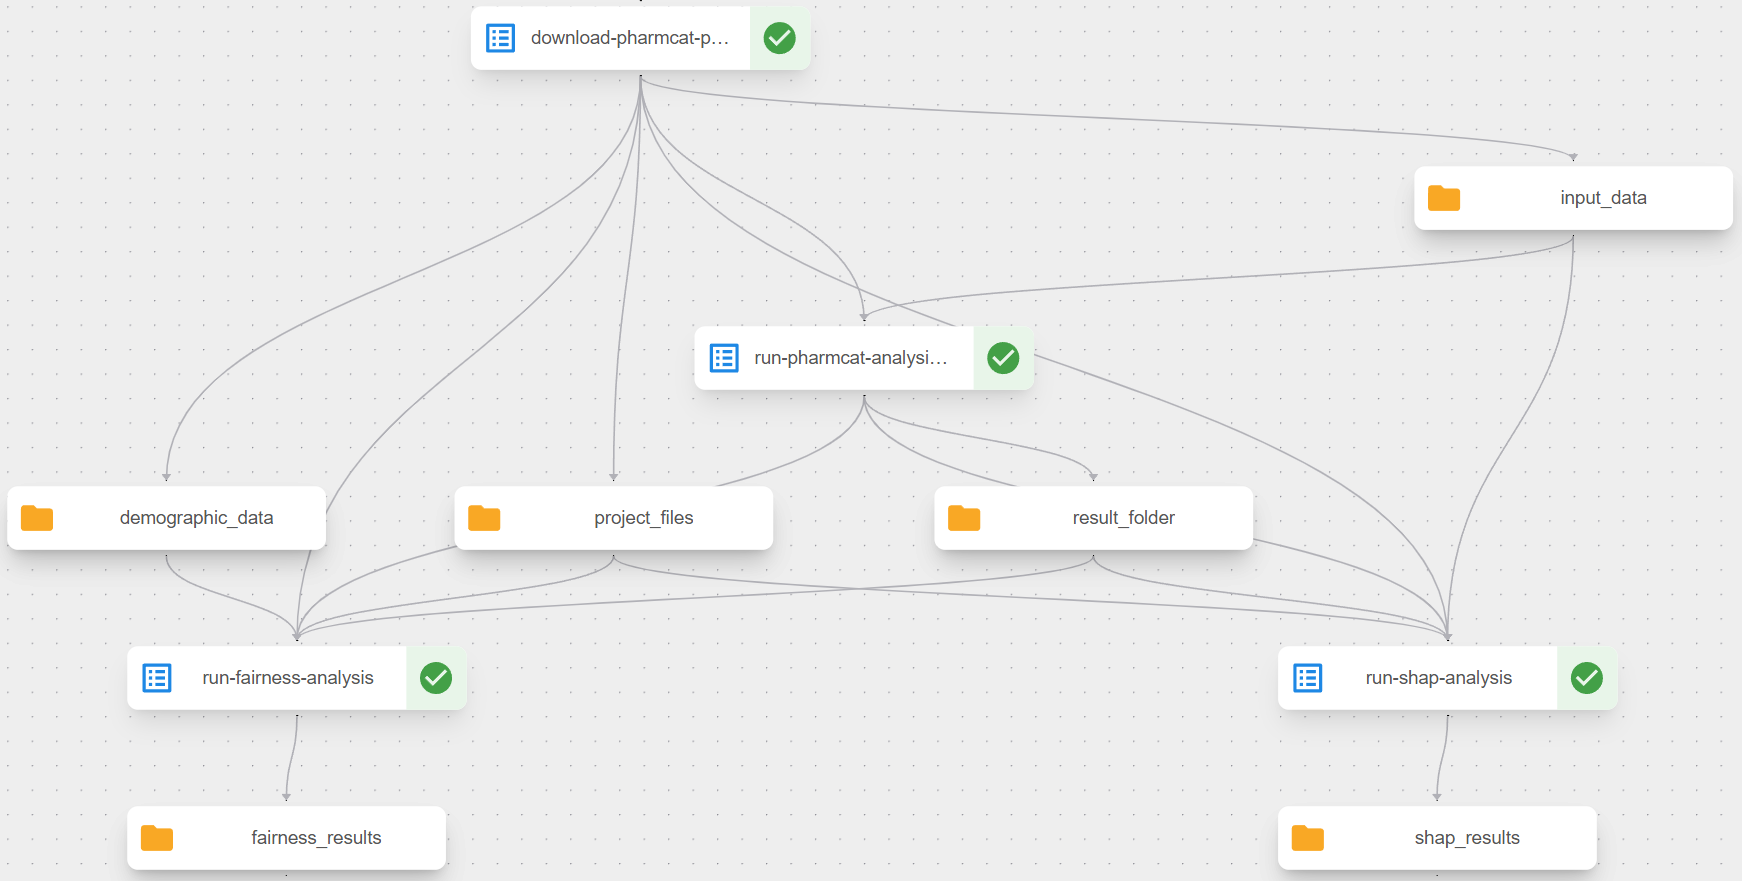
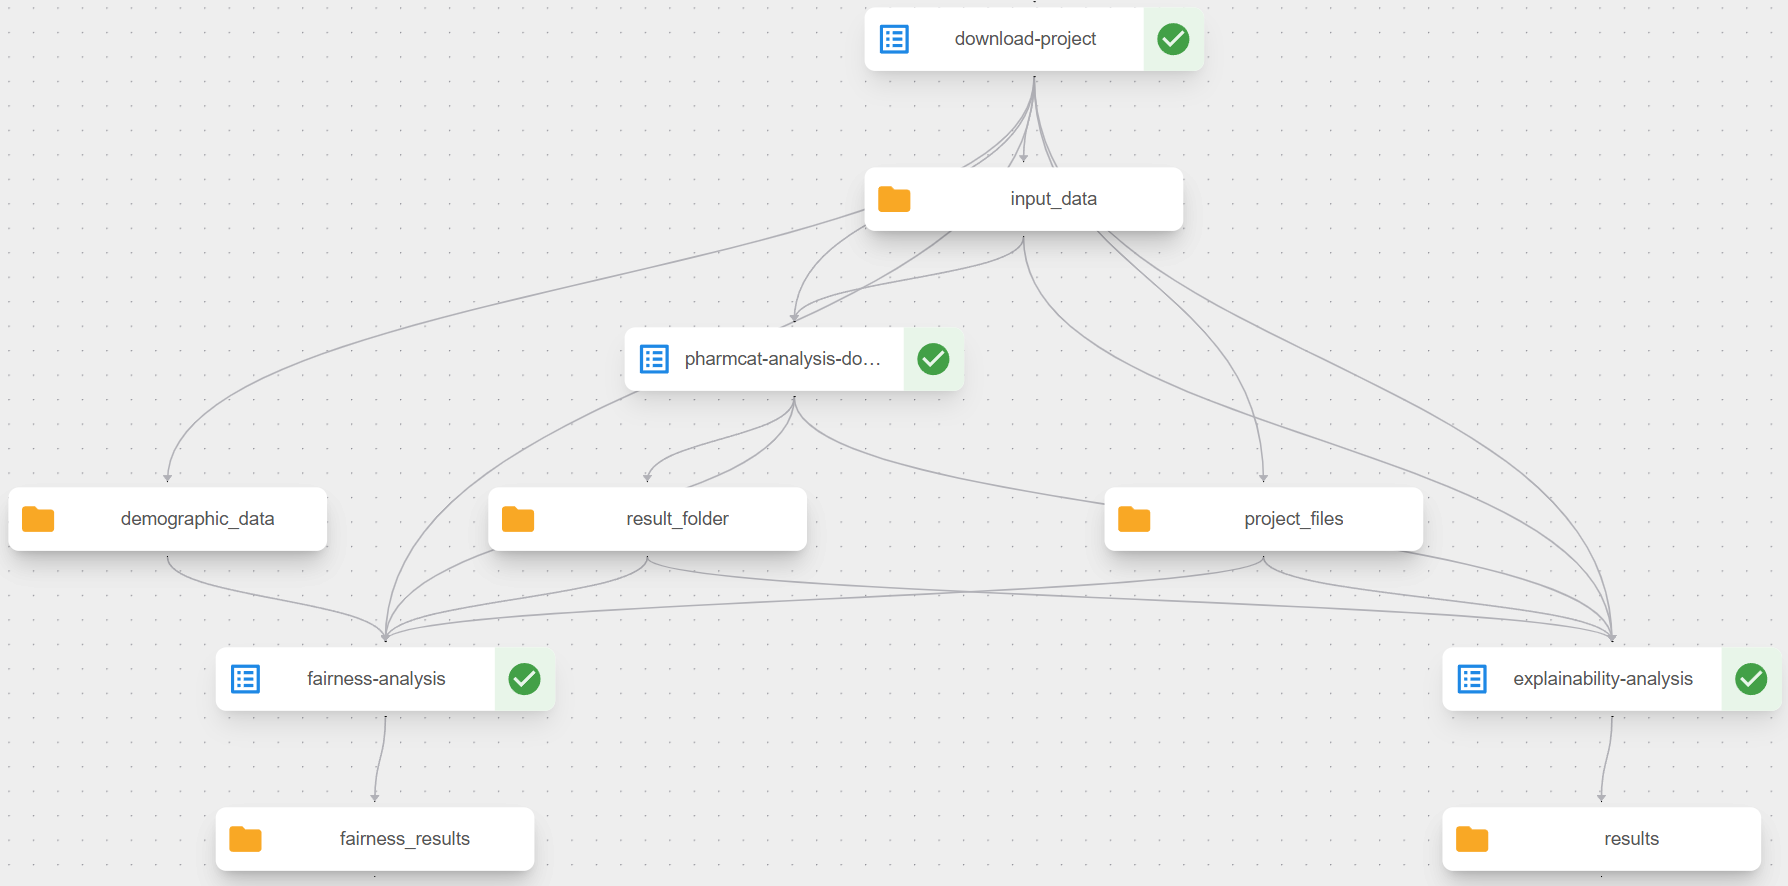
Component renames. Update README. Update pipeline png

diff --git a/kubeflow_component/pgx_pipeline_component.py b/kubeflow_component/pgx_pipeline_component.py
@@ -7,7 +7,7 @@ from kfp.dsl import Dataset, Input, Output, Model
     base_image="python:3.10-slim",
     packages_to_install=["requests"]
 )
-def download_pharmcat_project(
+def download_project(
         github_repo_url: str,
         project_files: Output[Model],
         input_data: Output[Dataset],
@@ -161,13 +161,13 @@ def download_pharmcat_project(
 
 
 @dsl.container_component
-def run_pharmcat_analysis_docker(
+def pharmcat_analysis_docker(
         input_folder: dsl.Input[dsl.Dataset],
         result_folder: dsl.Output[dsl.Dataset]
 ):
     command_str = f"mkdir -p '{result_folder.path}' && python3 -u /scripts/pharmcat_folder_processor.py --input_folder '{input_folder.path}' --result_folder '{result_folder.path}'"
     return dsl.ContainerSpec(
-        image="docker.io/gigakos/pharmcat-realm:latest",  # Insert your Docker image here (e.g. "docker.io/<username>/pharmcat-realm:latest")
+        image="<your_docker_pharmcat_image>",  # Insert your Docker image here (e.g. "docker.io/<username>/pharmcat-realm:latest")
         command=["sh", "-c"],
         args=[command_str]
     )
@@ -177,7 +177,7 @@ def run_pharmcat_analysis_docker(
     base_image="python:3.10-slim",
     packages_to_install=["matplotlib", "numpy", "pandas", "scikit-learn", "seaborn", "shap"]
 )
-def run_analysis(
+def explainability_analysis(
         project_files: Input[Model],
         input_data: Input[Dataset],
         pharmcat_results: Input[Dataset],
@@ -260,7 +260,7 @@ def run_analysis(
     base_image="python:3.10-slim",
     packages_to_install=["numpy", "pandas", "scipy"]
 )
-def run_fairness_analysis(
+def fairness_analysis(
         project_files: Input[Model],
         demographic_data: Input[Dataset],
         pharmcat_results: Input[Dataset],
@@ -347,13 +347,13 @@ def pharmcat_pipeline(
         sensitivity: float = 0.7,  # Control the blend between explanation methods
         max_samples: int = -1  # -1 means analyze all samples
 ):
-    download_task = download_pharmcat_project(
+    download_task = download_project(
         github_repo_url=github_repo_url,
         branch=branch
     )
     download_task.set_caching_options(False)
 
-    pharmcat_task = run_pharmcat_analysis_docker(
+    pharmcat_task = pharmcat_analysis_docker(
         input_folder=download_task.outputs["input_data"]
     )
     pharmcat_task.set_caching_options(False)
@@ -362,7 +362,7 @@ def pharmcat_pipeline(
     pharmcat_task.set_memory_request("4G")
     pharmcat_task.set_memory_limit("8G")
 
-    analysis_task = run_analysis(
+    analysis_task = explainability_analysis(
         project_files=download_task.outputs["project_files"],
         input_data=download_task.outputs["input_data"],
         pharmcat_results=pharmcat_task.outputs["result_folder"],
@@ -375,7 +375,7 @@ def pharmcat_pipeline(
     analysis_task.set_memory_request("4G")
     analysis_task.set_memory_limit("8G")
 
-    fairness_task = run_fairness_analysis(
+    fairness_task = fairness_analysis(
         project_files=download_task.outputs["project_files"],
         demographic_data=download_task.outputs["demographic_data"],
         pharmcat_results=pharmcat_task.outputs["result_folder"]

diff --git a/README.md b/README.md
@@ -325,6 +325,14 @@ The `pgx_pipeline_component.py` file defines a Kubeflow pipeline for automating 
 You need to specify the docker image containing the PharmCAT analysis code at **line 170** in the `pgx_pipeline_component.py` file. The pipeline can be compiled and deployed to a Kubeflow environment by first executing `python .\kubeflow_component\pgx_pipeline_component.py` and then uploading the generated YAML file to the Kubeflow UI.
 The pipeline structure can be seen in the below image: ![Kubeflow Pipeline](kubeflow_pipeline.png)
 
+## Accessing the Generated Artifacts
+
+The pipeline stores generated artifacts in MinIO object storage within the Kubeflow namespace. To access these artifacts:
+1. Set up port forwarding to the MinIO service by running `kubectl port-forward -n kubeflow svc/minio-service 9000:9000` in a terminal window
+2. Access the MinIO web interface at `http://localhost:9000`
+3. Log in with the default credentials: **username:** `minio`, **password:** `minio123`
+4. Navigate to the `mlpipeline` bucket, where you'll find the respective folders according to the automatically assigned uuid of the pipeline. (An example location could be: `http://localhost:9000/minio/mlpipeline/v2/artifacts/pharmcat-pgx-analysis-pipeline-dockerized/f3346d91-8fae-475f-ab83-f78df99264bc/`)
+
 ## 📜 License & Usage
 
 All rights reserved by MetaMinds Innovations.
